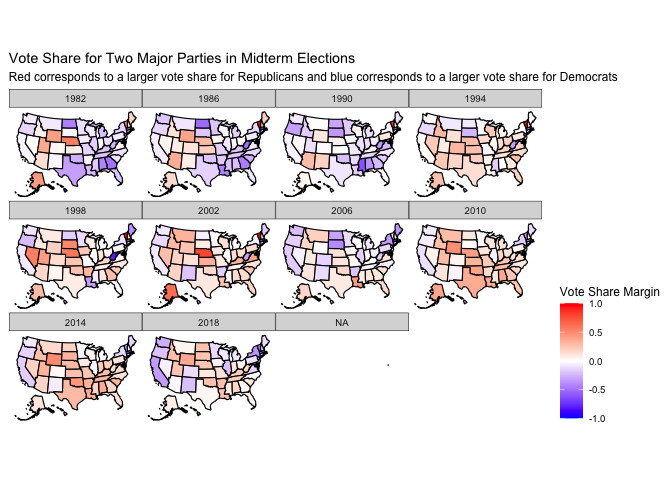
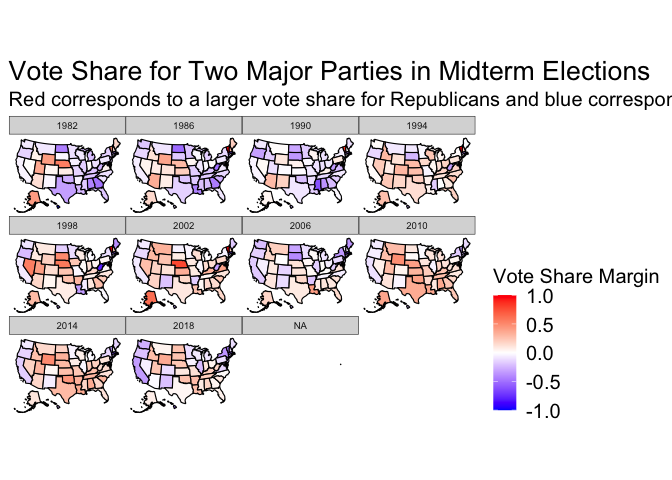
changes to graph sizes

diff --git a/scripts/week1.md b/scripts/week1.md
@@ -1,3 +1,5 @@
+\*\*\*\*Blog - Week 1 \*\*\*\*
+
     ## ── Attaching packages ─────────────────────────────────────── tidyverse 1.3.1 ──
 
     ## ✓ ggplot2 3.3.5     ✓ purrr   0.3.4
@@ -37,18 +39,7 @@ votes cast. Red indicates that Republicans carried the state, while blue
 shades mean it went to the Democrats. White shades indicate that the
 vote was very close.
 
-``` r
-plot_usmap(data = margin, regions = "state", values = "R_votemargin_st") +
-  facet_wrap(facets = raceYear~.) +
-  scale_fill_gradient2(low = "blue",mid = "white",high = "red",name = "Vote Share Margin") + 
-  labs(title = "Vote Share for Two Major Parties in Midterm Elections",subtitle = "Red corresponds to a larger vote share for Republicans and blue corresponds to a larger vote share for Democrats") + theme(legend.position = "right",
-        panel.grid = element_blank(),
-        axis.text.x = element_blank(),
-        axis.text.y = element_blank(),
-        axis.title.x = element_blank(),
-        axis.title.y = element_blank())
-```
-
+**Vote margin by state 1982-2018 Midterms**
 ![](week1_files/figure-markdown_github/unnamed-chunk-3-1.png)
 
 We can see from the plots that most states rarely change their party
